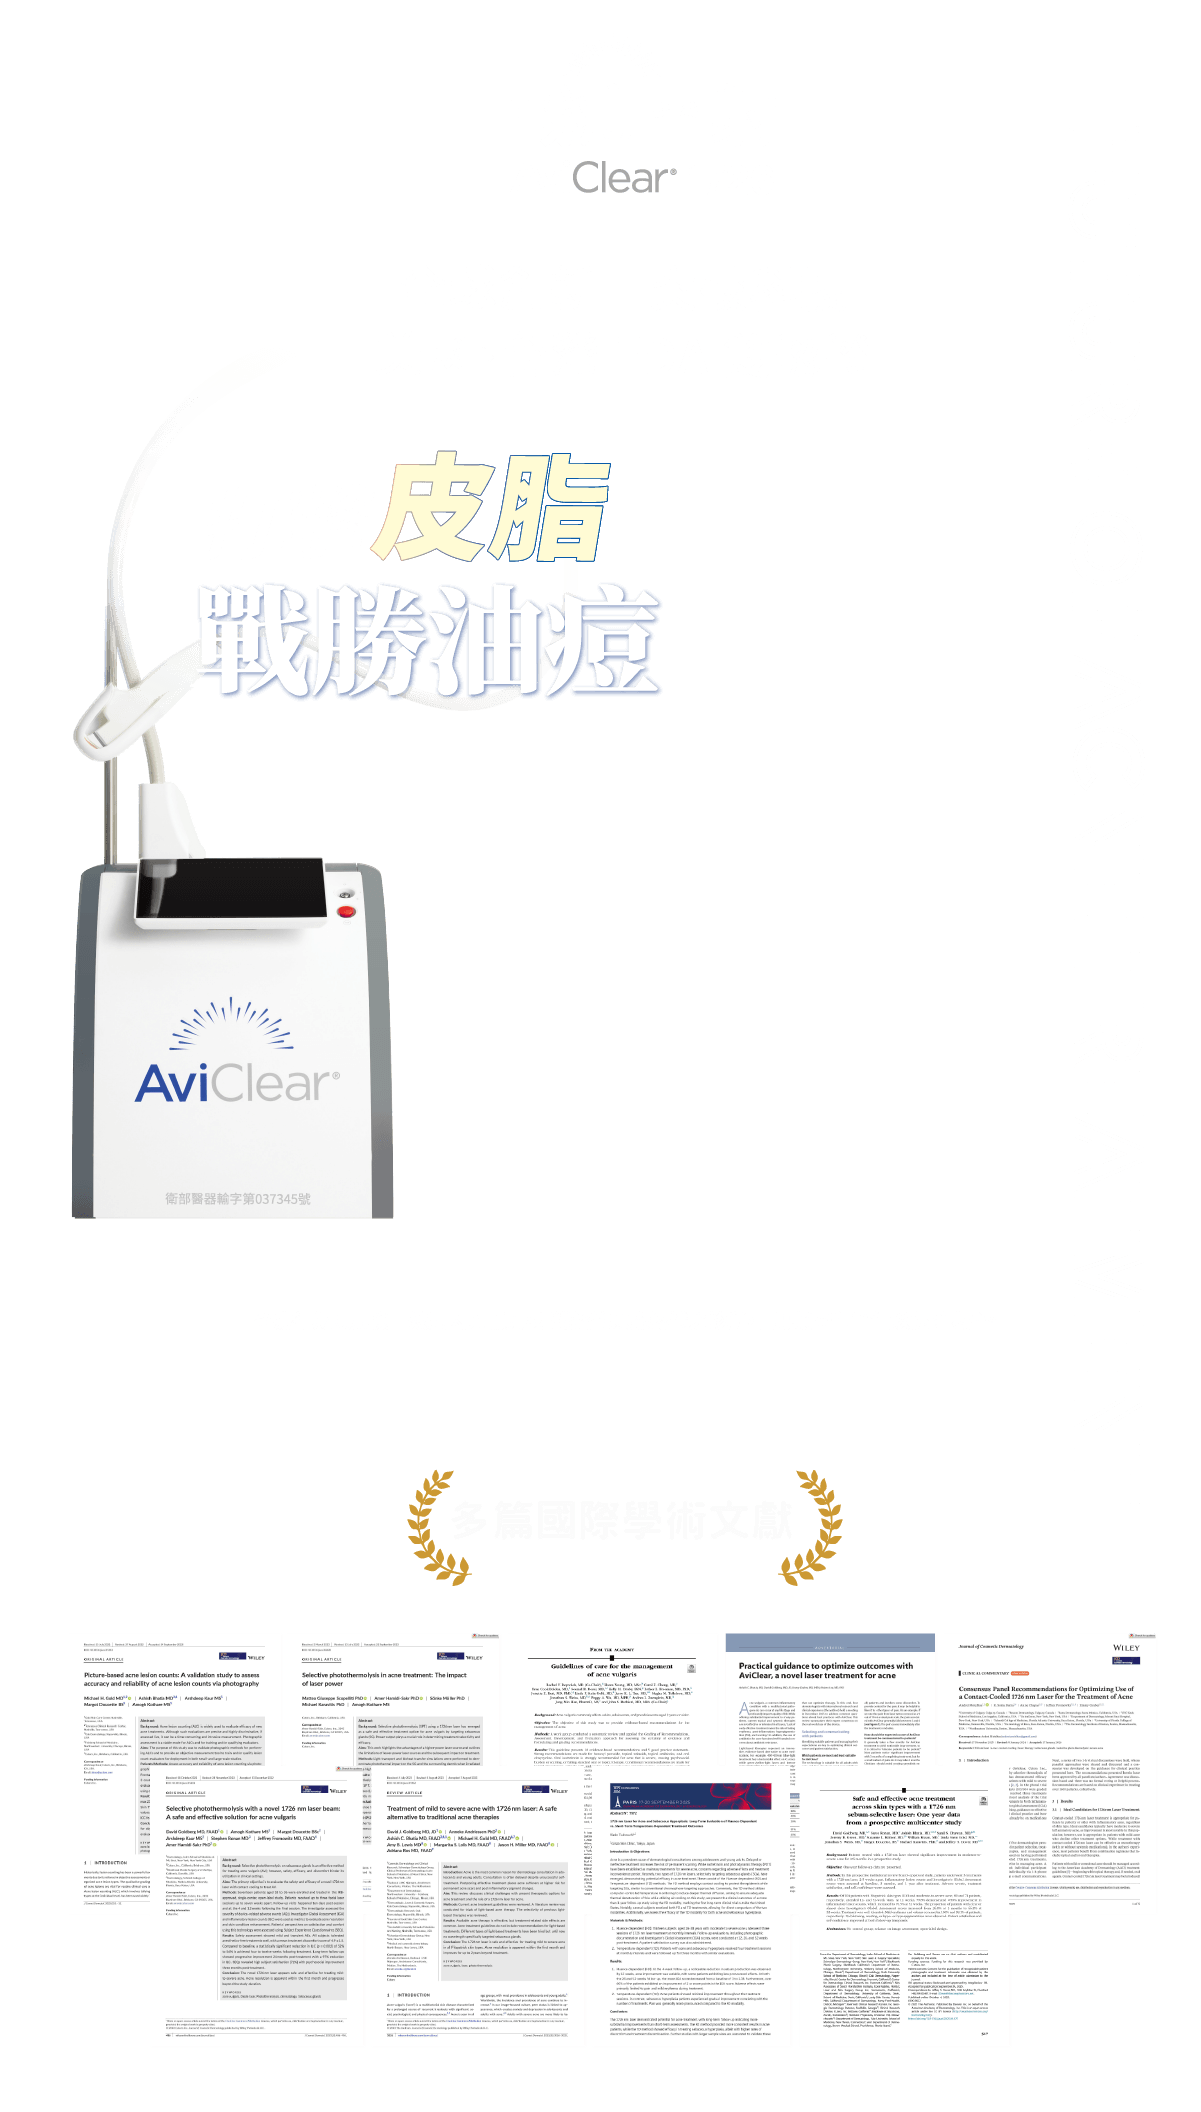
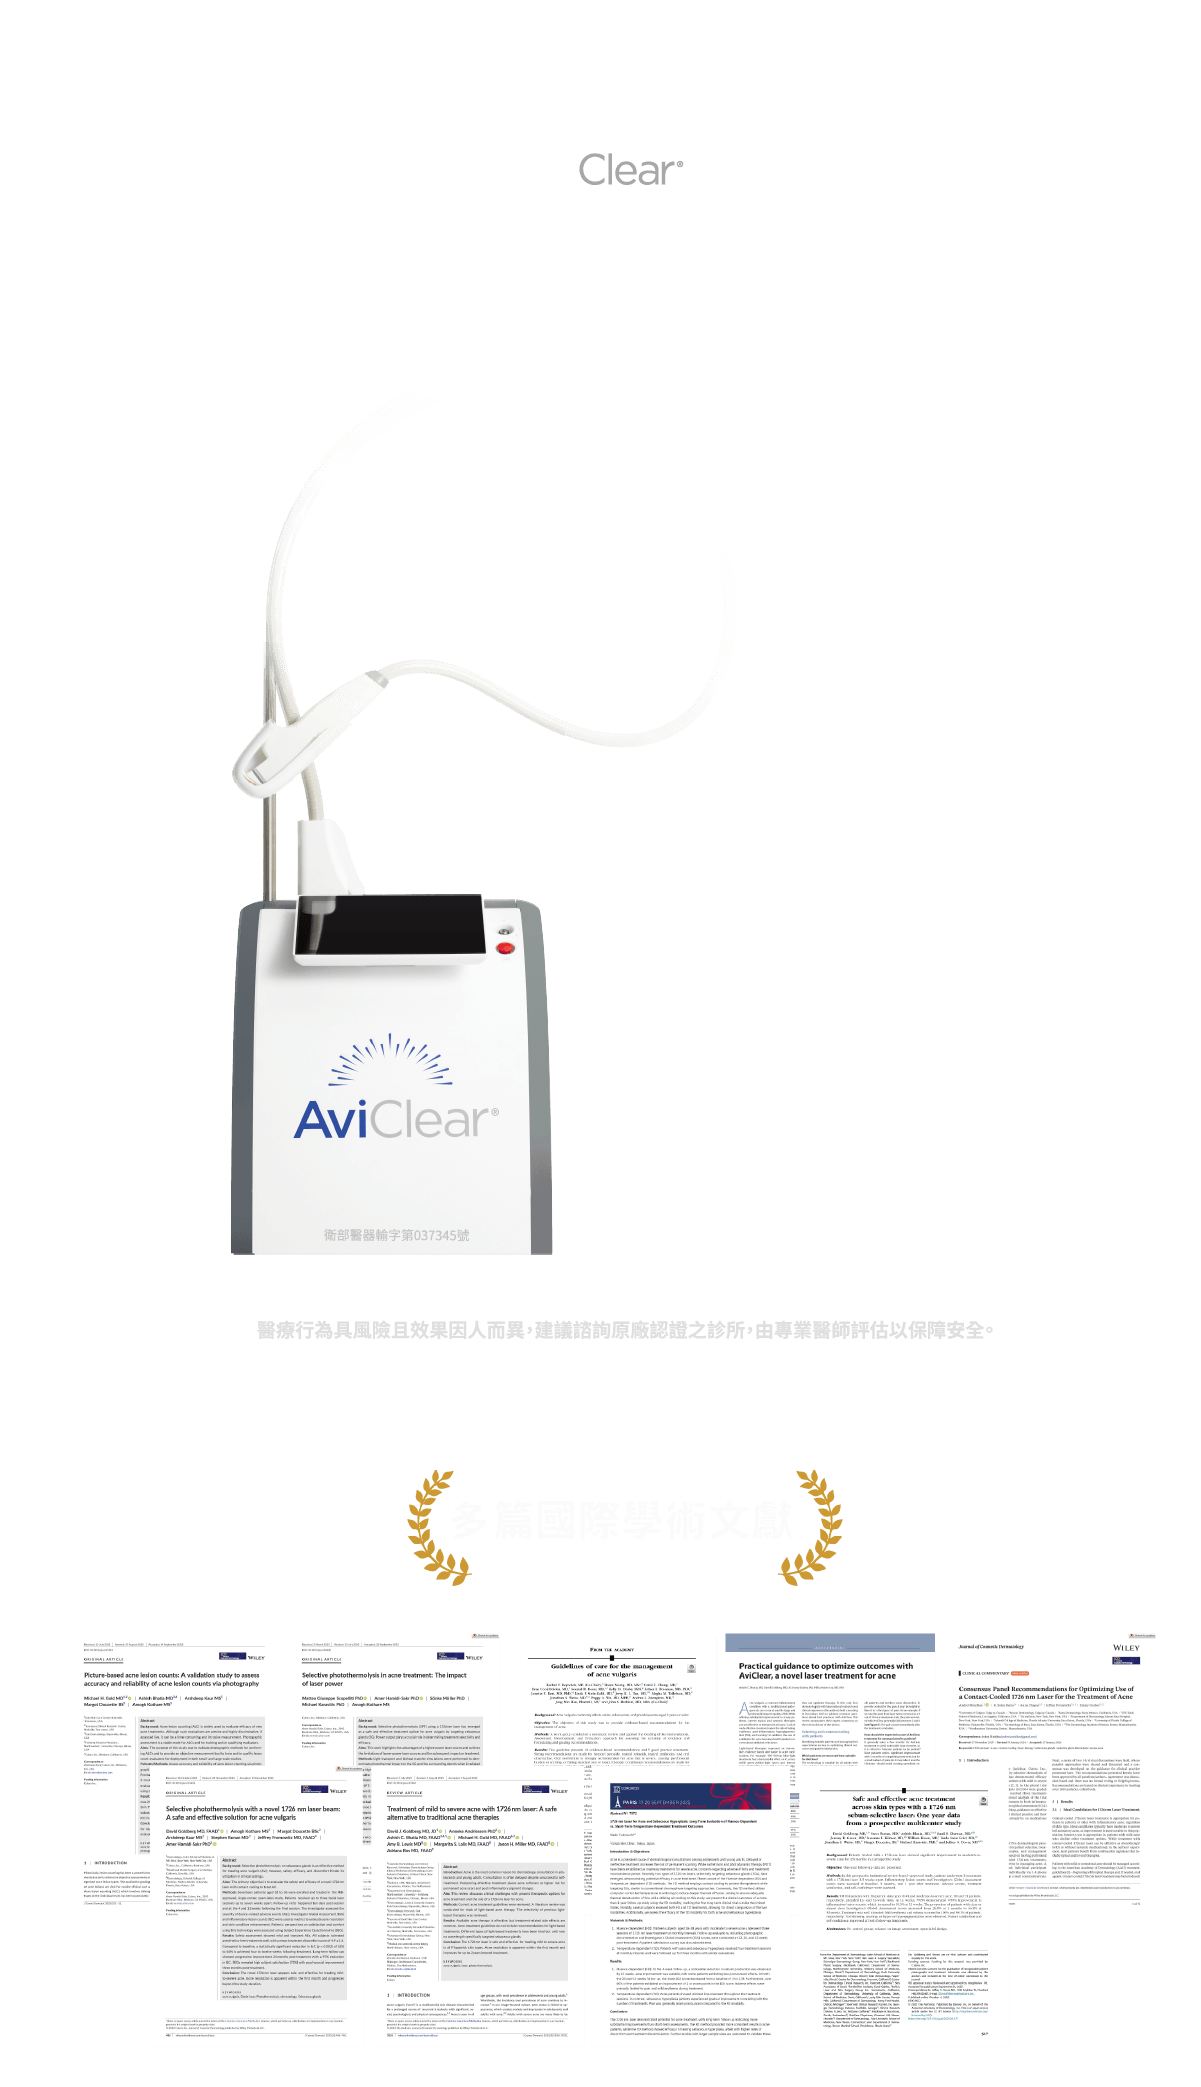
issue

diff --git a/aviclear/index.html b/aviclear/index.html
@@ -80,7 +80,7 @@
       </nav>
       <div class="content-wrapper">
         <section id="kv1">
-          <div class="wrapper">
+          <div class="wrapper position-relative">
             <div class="container position-relative">
               <div class="row position-relative">
                 <div class="col-md-10 offset-md-1 position-relative">
@@ -88,8 +88,13 @@
                     class="w-100 d-none d-lg-block"
                     src="./assets/aviclear/kv1.png"
                     alt="aviclear戰痘雷射，全球第一雙認證"
-                    fetchpriority="high" loading="eager" decoding="async"
+                    fetchpriority="high"
+                    loading="eager"
+                    decoding="async"
                   />
+                  <div class="kv-item d-none d-lg-block">
+                    <img src="./assets/aviclear/kv-item.gif" alt="" />
+                  </div>
                 </div>
                 <div class="phone-video-outline d-none d-lg-block">
                   <div class="inner">
@@ -101,14 +106,7 @@
                       />
                     </div>
                     <div class="phone-video">
-                      <video
-                        poster="./assets/aviclear/video-pic.jpg"
-                        playsinline
-                        controls
-                        muted
-                        autoplay
-                        preload="none"
-                      >
+                      <video playsinline controls muted autoplay preload="none">
                         <source
                           src="./assets/aviclear/video.mp4"
                           type="video/mp4"
@@ -123,7 +121,9 @@
               class="w-100 d-lg-none"
               src="./assets/aviclear/kv1-mb.png"
               alt="aviclear戰痘雷射，全球第一雙認證"
-              fetchpriority="high" loading="eager" decoding="async"
+              fetchpriority="high"
+              loading="eager"
+              decoding="async"
             />
             <div class="phone-video-outline d-lg-none">
               <div class="inner">
@@ -131,14 +131,7 @@
                   <img class="w-100" src="./assets/aviclear/phone.png" alt="" />
                 </div>
                 <div class="phone-video">
-                  <video
-                    poster="./assets/aviclear/video-pic.jpg"
-                    playsinline
-                    controls
-                    muted
-                    autoplay
-                    preload="none"
-                  >
+                  <video playsinline controls muted autoplay preload="none">
                     <source
                       src="./assets/aviclear/video.mp4"
                       type="video/mp4"
@@ -146,6 +139,9 @@
                   </video>
                 </div>
               </div>
+            </div>
+            <div class="kv-item d-lg-none">
+              <img src="./assets/aviclear/kv-item.gif" alt="" />
             </div>
           </div>
         </section>
@@ -474,14 +470,14 @@
                                       >
                                     </div>
                                     <div
-                                      class="right d-flex align-items-center flex-column flex-lg-row fs-16 text-black-50"
+                                      class="right d-flex align-items-center justify-content-between flex-column flex-lg-row fs-16 text-black-50"
                                     >
                                       <a
                                         class="link-dark"
                                         :href="clinic.link"
                                         target="_blank"
                                       >
-                                        <span class="px-0 px-lg-2"
+                                        <span class="px-0 px-xl-2"
                                           >{{clinic.address}}</span
                                         >
                                       </a>
@@ -520,11 +516,17 @@
                                         >
                                       </div>
                                       <div
-                                        class="right d-flex align-items-center flex-column flex-lg-row fs-16 text-black-50"
+                                        class="right d-flex align-items-center justify-content-between flex-column flex-lg-row fs-16 text-black-50"
                                       >
-                                        <span class="px-0 px-lg-2"
-                                          >{{clinic.address}}</span
+                                        <a
+                                          class="link-dark"
+                                          :href="clinic.link"
+                                          target="_blank"
                                         >
+                                          <span class="px-0 px-xl-2"
+                                            >{{clinic.address}}</span
+                                          >
+                                        </a>
                                         <span>{{clinic.phone}}</span>
                                       </div>
                                     </div>
@@ -550,10 +552,10 @@
                   <div class="clinic-bg rounded-bottom p-4">
                     <div class="row justify-content-center align-items-center">
                       <!-- Title -->
-                      <div class="col-8 col-sm-7 col-lg-7 col-xl-8 col-xxl-7">
-                        <div class="contact-header mb-3 mb-sm-10">
+                      <div class="col-12">
+                        <div class="contact-header">
                           <h2
-                            class="d-flex flex-row align-items-center my-2 my-sm-4"
+                            class="d-flex flex-row justify-content-center align-items-center mb-0"
                           >
                             <span>想要</span>
                             <div class="logo">
@@ -565,20 +567,25 @@
                             </div>
                             <span>認證診所資訊</span>
                           </h2>
-                          <p>
-                            為了方便諮詢請留下您想收到的診所區域，<br />我們會將您選定的區域內認證診所資訊發送到您的信箱，謝謝～
+                        </div>
+                      </div>
+                      <div class="col-sm-10">
+                        <div
+                          class="contact-header contact-header-content py-3 py-md-6"
+                        >
+                          <p class="mb-0">
+                            為了方便您選定諮詢診所，請留下您想收到的診所區域，<br />我們會將您選定的區域內【AviClear戰鬥雷射認證診所】資訊發送到您的信箱，謝謝～
                           </p>
+                          <div class="machine">
+                            <img
+                              class="w-100"
+                              src="./assets/aviclear/product.png"
+                              alt="aviclear product"
+                            />
+                          </div>
                         </div>
                       </div>
-                      <div class="col-4 col-lg-4 col-xl-3 col-xxl-3">
-                        <div class="">
-                          <img
-                            class="w-100"
-                            src="./assets/aviclear/product.png"
-                            alt="aviclear product"
-                          />
-                        </div>
-                      </div>
+                      <div class="col-4 col-lg-4 col-xl-3 col-xxl-3"></div>
                       <!-- IP + Form -->
                       <div class="col-sm-10">
                         <!-- <div class="position-relative">
@@ -676,9 +683,14 @@
                   </div>
                   <p class="text-white fs-12 text-center mt-4">
                     <b
-                      >醫療行為具風險且效果因人而異，建議諮詢原廠認證之診所，<br class="d-lg-none">由專業醫師評估以保障安全。<br class="d-lg-none"
-                    >衛部醫器輸字第 037345 號 | “酷特拉” 愛薇可雷射系統<br class="d-lg-none">(“CUTERA”
-                    AviClear Laser System)
+                      >醫療行為具風險且效果因人而異，建議諮詢原廠認證之診所，<br
+                        class="d-lg-none"
+                      />由專業醫師評估以保障安全。<br
+                        class="d-lg-none"
+                      />衛部醫器輸字第 037345 號 | “酷特拉” 愛薇可雷射系統<br
+                        class="d-lg-none"
+                      />(“CUTERA” AviClear Laser System)</b
+                    >
                   </p>
                 </div>
               </div>

diff --git a/aviclear/assets/css/custom.css b/aviclear/assets/css/custom.css
@@ -69,6 +69,9 @@ nav {
 #contact .form-control {
   color: #222222;
 }
+.contact-header {
+  position: relative;
+}
 .contact-header .logo {
   width: 220px;
   padding: 0 1rem;
@@ -81,6 +84,13 @@ nav {
 .contact-header p {
   color: #002e79;
   font-size: 16px;
+}
+.contact-header .machine {
+  position: absolute;
+  width: 28%;
+  bottom: 0;
+  right: 0;
+  transform: translateX(22%);
 }
 .phone-video-outline {
   position: absolute;
@@ -149,9 +159,9 @@ nav {
 }
 .phone-video-outline {
   position: absolute;
-  width: 22%;
-  top: 20%;
-  right: 32%;
+  width: 24%;
+  top: 26%;
+  right: 34%;
   transform: translateX(50%);
 }
 .phone-video-outline .inner {
@@ -167,11 +177,11 @@ nav {
   pointer-events: none;
 }
 .phone-video {
-  width: 92%;
+  width: 96%;
   margin: 0 auto;
-  aspect-ratio: 9 / 16.4; /* 現代瀏覽器支援，維持直式 */
+  aspect-ratio: 9 / 18.2; /* 現代瀏覽器支援，維持直式 */
   overflow: hidden;
-  border-radius: 10% 10% 0 0;
+  border-radius: 10%;
   box-shadow: 0 20px 30px rgba(0, 0, 0, 0.2);
   background: #000;
 }
@@ -180,6 +190,16 @@ nav {
   height: 100%;
   object-fit: cover; /* cover 會裁切但填滿容器 */
   display: block;
+}
+.kv-item {
+  position: absolute;
+  top: 0;
+  left: 0;
+  width: 43vw;
+  transform: translate(26%, 62%);
+}
+.kv-item img {
+  width: 100%;
 }
 @media (max-width: 1200px) {
   .contact-header h2 {
@@ -191,14 +211,22 @@ nav {
   .contact-header p {
     width: 100%;
   }
-  /* .phone-video-outline {
-        width: 24%;
-        top: 24%;
-        right: 29%;
-    }
-    .phone-video-outline .inner {
-        padding-top: 4px;
-    } */
+  #clinic .card .left,
+  #clinic .card .right {
+    width: 100%;
+    flex-wrap: wrap;
+    flex-direction: column;
+  }
+  #clinic .card .right span {
+    width: 100%;
+  }
+  .contact-header-content {
+    padding-right: 20%;
+  }
+  .contact-header p {
+    width: 100%;
+    font-size: 12px;
+  }
 }
 
 @media (max-width: 992px) {
@@ -220,6 +248,15 @@ nav {
   #clinic .card .left,
   #clinic .card .right {
     width: 100%;
+    flex-wrap: wrap;
+    flex-direction: column;
+  }
+  #clinic .card .right span {
+    text-align: center;
+  }
+  .kv-item {
+    width: 52vw;
+    transform: translate(11%, 72%);
   }
 }
 
@@ -290,6 +327,16 @@ nav {
   .phone-video {
     border-radius: 10px 10px 0 0;
   }
+  .contact-header .machine {
+    transform: translate(22%, -102%);
+  }
+  .contact-header-content {
+    padding-right: 0%;
+  }
+  .contact-header p {
+    width: 100%;
+    font-size: 13px;
+  }
 }
 
 @media (max-width: 576px) {
@@ -307,11 +354,6 @@ nav {
   .contact-header .logo {
     width: 90px;
     padding: 0 4px;
-  }
-  .contact-header p {
-    /* text-align: center; */
-    width: 100%;
-    font-size: 13px;
   }
   .ip-img {
     width: 140px;
